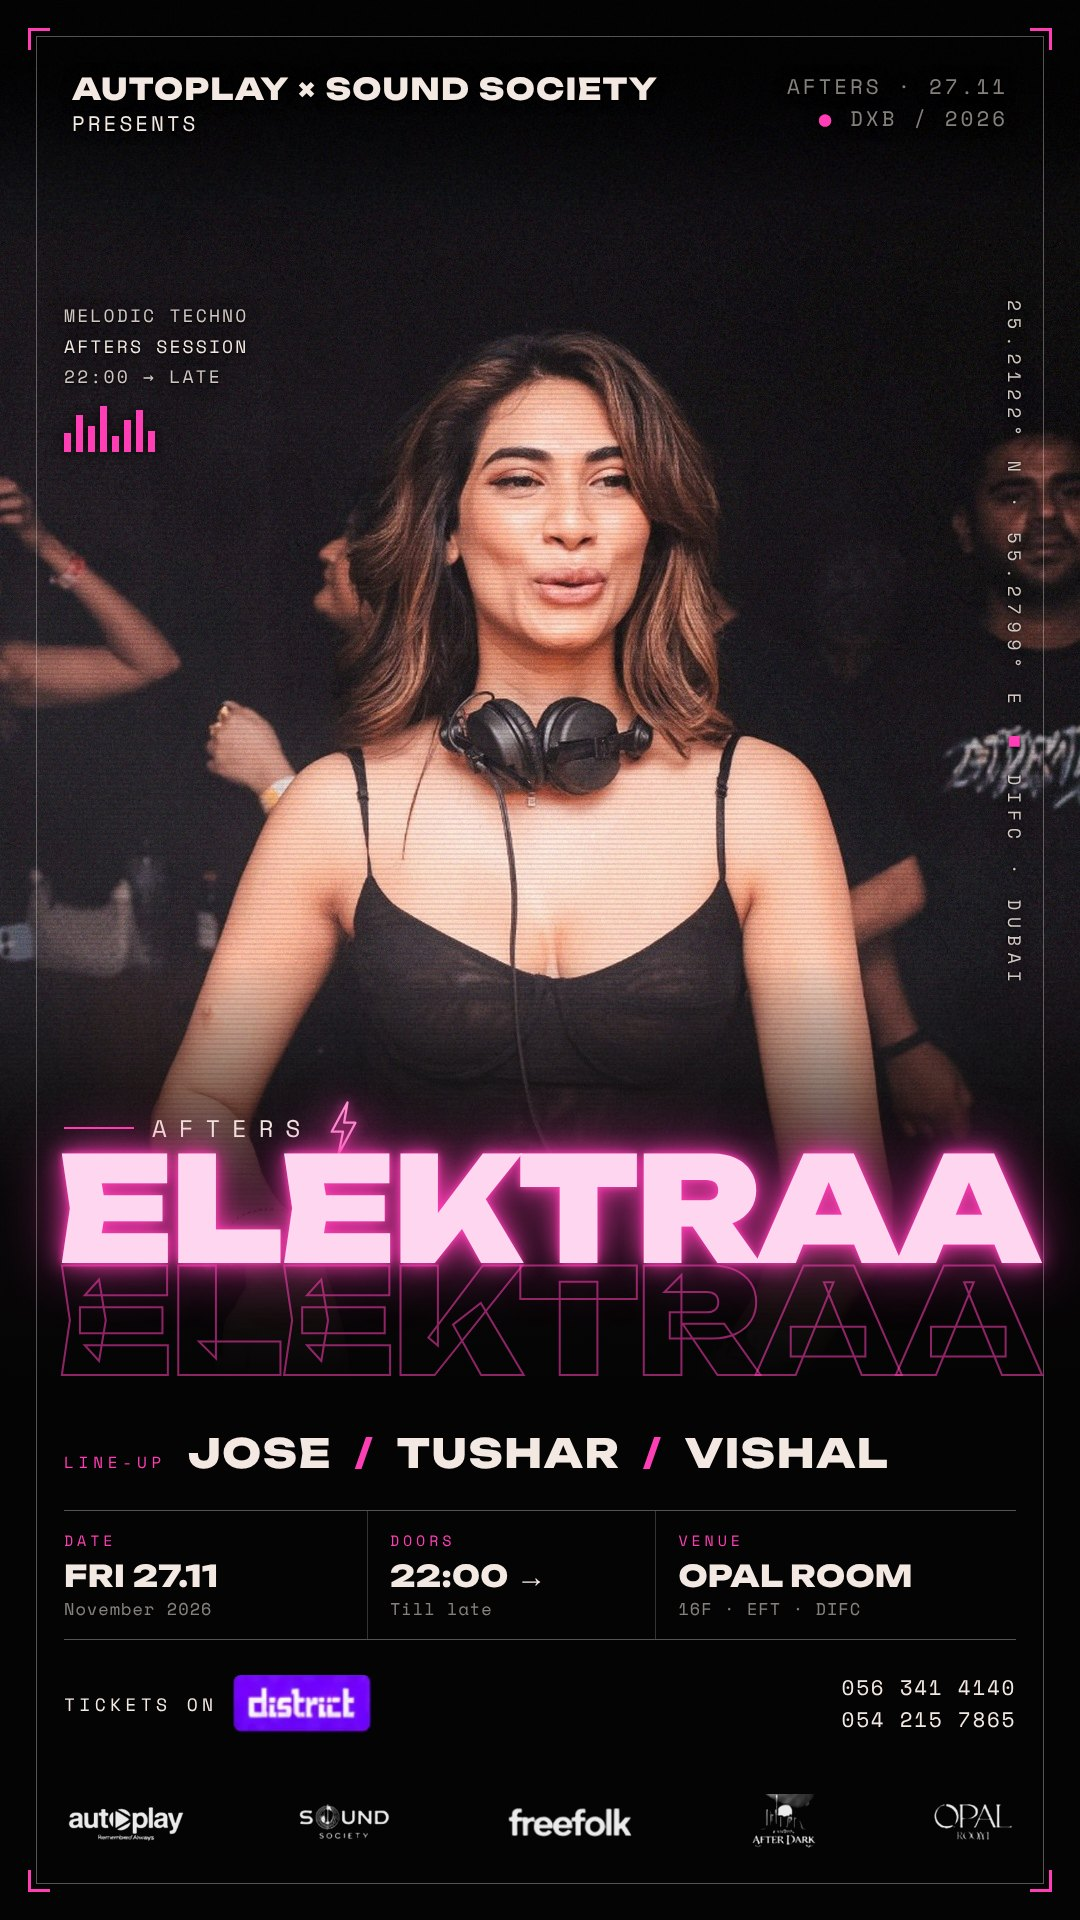
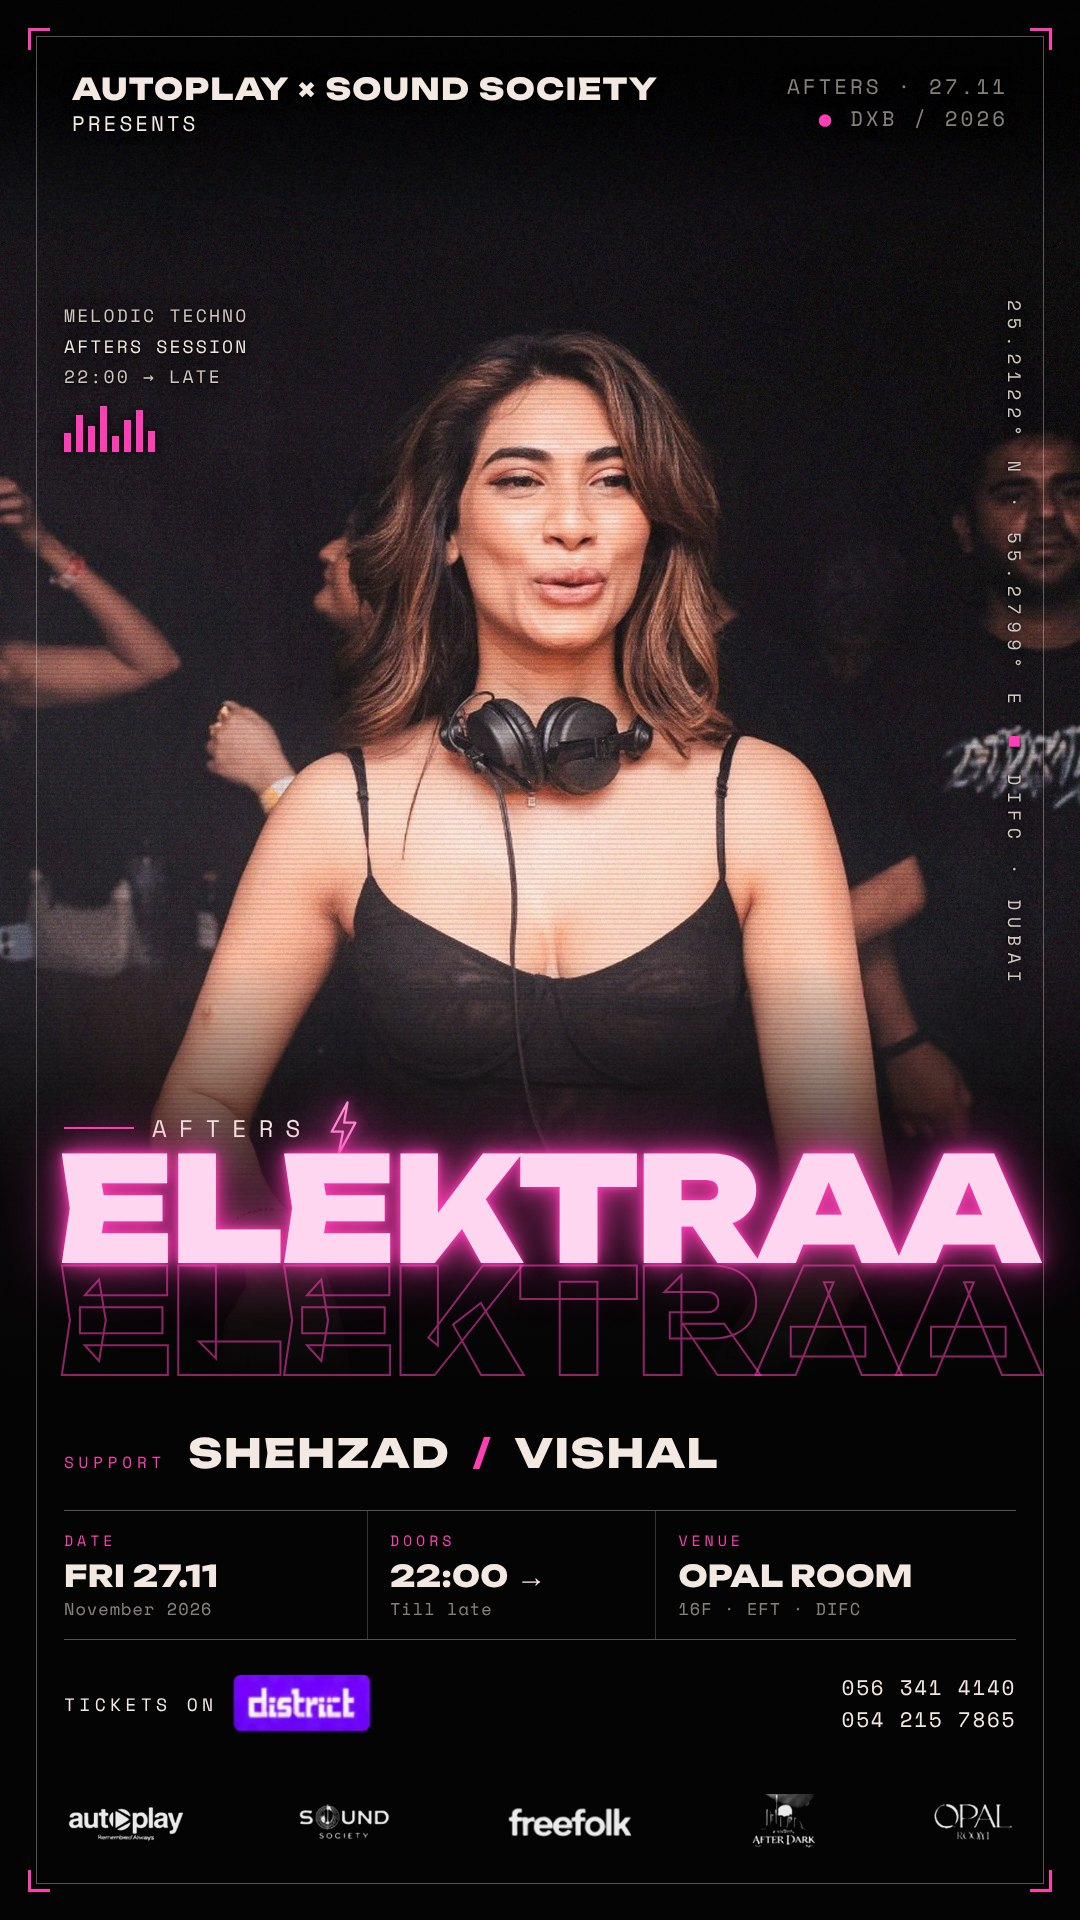
Elektraa: supporting act Shehzad / Vishal
Claude-Session: https://claude.ai/code/session_01EuskyKLpU51r6JcuJzDCoK

Changed region(s): [[0.1833, 0.75, 0.825, 0.7812]]

diff --git a/assets/js/site.js b/assets/js/site.js
@@ -235,7 +235,7 @@
       ${dateBlock(e.date)}
       <div>
         ${mark(e.title, "event-logo") ? `<h3 class="event-mark">${mark(e.title, "event-logo")}</h3>` : `<h3>${esc(e.title)}${e.subtitle ? ` <span class="event-sub">${esc(e.subtitle)}</span>` : ""}</h3>`}
-        <p>${e.tagline ? `<span class="chip">${esc(e.tagline)}</span>` : (e.brand && !brandOf(e.brand) ? `<span class="chip">${esc(e.brand)}</span>` : "")}${e.venue ? esc(e.venue) : ""}${e.lineup ? ` · ${e.lineup.map(esc).join(" · ")}` : ""}</p>
+        <p>${e.tagline ? `<span class="chip">${esc(e.tagline)}</span>` : (e.brand && !brandOf(e.brand) ? `<span class="chip">${esc(e.brand)}</span>` : "")}${e.venue ? esc(e.venue) : ""}${e.lineup ? ` · ${e.lineup.map(esc).join(" · ")}` : ""}${e.support ? ` · support: ${e.support.map(esc).join(" · ")}` : ""}</p>
       </div>
       ${past
         ? (e.album ? `<a class="btn btn--ghost" href="${esc(e.album)}" target="_blank" rel="noopener">See the night</a>` : "")
@@ -295,6 +295,7 @@
           <dl class="next-up-facts">
             ${e.tagline ? `<div><dt>The night</dt><dd>${esc(e.tagline)}</dd></div>` : ""}
             ${e.offers ? `<div><dt>Offers</dt><dd>${e.offers.map(esc).join("<br>")}</dd></div>` : ""}
+            ${e.support ? `<div><dt>Support</dt><dd>${e.support.map(esc).join(" · ")}</dd></div>` : ""}
             ${e.lineup ? `<div><dt>Line-up</dt><dd>${e.lineup.map(esc).join(" · ")}</dd></div>` : ""}
             ${e.venue ? `<div><dt>Venue</dt><dd>${esc(e.venue)}${e.address ? `<br><span>${esc(e.address)}</span>` : ""}</dd></div>` : ""}
             ${e.phones ? `<div><dt>Reservations</dt><dd>${e.phones.map((n) => `<a href="${tel(n)}">${esc(n)}</a>`).join(" · ")}</dd></div>` : ""}

diff --git a/assets/js/data.js b/assets/js/data.js
@@ -95,7 +95,7 @@ window.ADS = {
       title: "Elektraa", subtitle: "Afters", brand: "Sound Society",
       presenter: "Autoplay × Sound Society present", tagline: "Melodic techno",
       venue: "Opal Room", address: "16th Floor, Emirates Financial Tower, DIFC, Dubai",
-      date: "2026-11-27T22:00", lineup: ["Jose", "Tushar", "Vishal"],
+      date: "2026-11-27T22:00", support: ["Shehzad", "Vishal"],
       offers: ["Tickets on District"],
       phones: ["056 341 4140", "054 215 7865"],
       poster: "assets/events/elektraa.jpg", ticketUrl: ""
